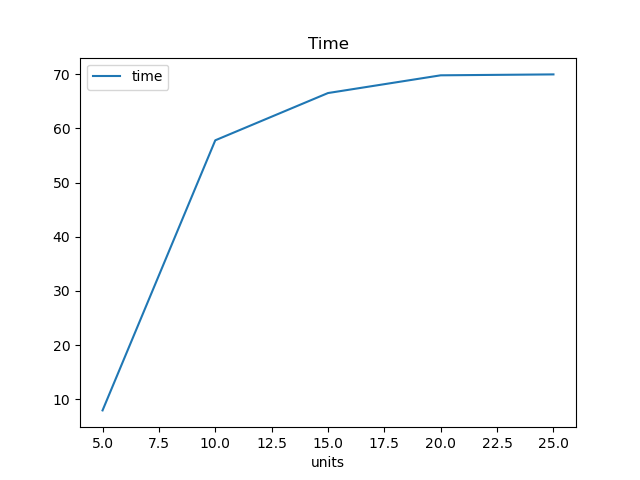
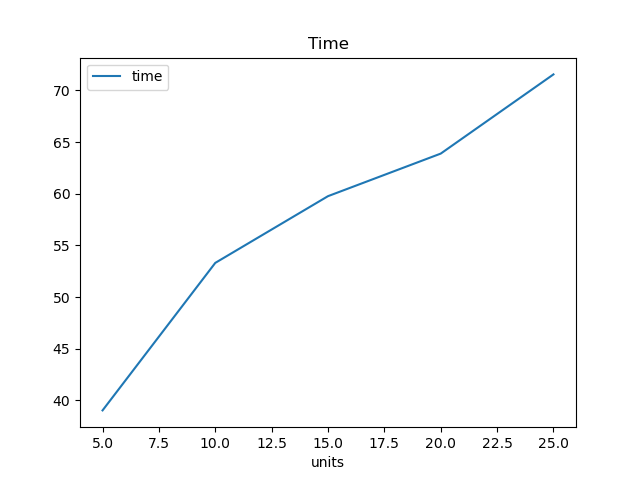
fixed stuff in Q2 and hopefully no more changes

diff --git a/Assignments/Assignment 3/Q2/Q2.py b/Assignments/Assignment 3/Q2/Q2.py
@@ -56,7 +56,7 @@ def relu_derivative(z):
 
 class NeuralNetwork:
     def __init__(self, X, Y, layers, activation, activation_derivative,
-                 learning_rate=0.1, epsilon=1e-6, batch_size=100, max_epochs=1000, adaptive=False, verbose=False):
+                 learning_rate=0.1, epsilon=1e-8, batch_size=100, max_epochs=1000, adaptive=False, verbose=False):
         permutation = np.random.permutation(X.shape[0])
         self.X = X[permutation]
         self.Y = Y[permutation]
@@ -78,8 +78,9 @@ class NeuralNetwork:
     def init_weights_biases(self):
         for i in range(1, len(self.layers)):
             self.weights.append(np.random.randn(
-                self.layers[i], self.layers[i - 1]))
-            self.biases.append(np.random.randn(self.layers[i], 1))
+                self.layers[i], self.layers[i - 1]) * (2 / self.layers[i - 1]) ** 0.5)
+            self.biases.append(np.random.randn(
+                self.layers[i], 1) * (2 / self.layers[i - 1]) ** 0.5)
 
     def forward_propagation(self, X):
         self.a = [X]
@@ -151,8 +152,8 @@ def util_nn(part: str, params, activation, activation_derivative, adaptive: bool
     with open(f'{args.output}/{part}', 'w+') as f:
         f.write('units,train_accuracy,test_accuracy,time\n')
         for num_units in params:
-            nn = NeuralNetwork(X_train, Y_train, num_units,
-                               activation, activation_derivative, adaptive=adaptive, verbose=True)
+            nn = NeuralNetwork(X_train, Y_train, num_units, activation,
+                               activation_derivative, adaptive=adaptive, verbose=True)
             t = time()
             nn.train()
             t = time() - t
